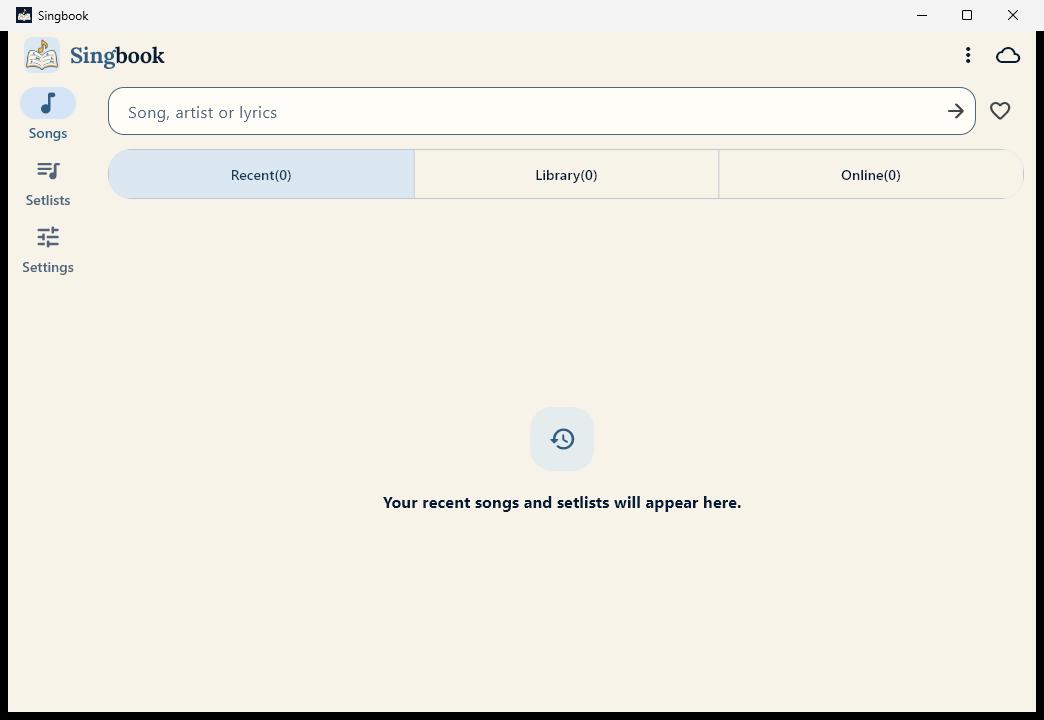
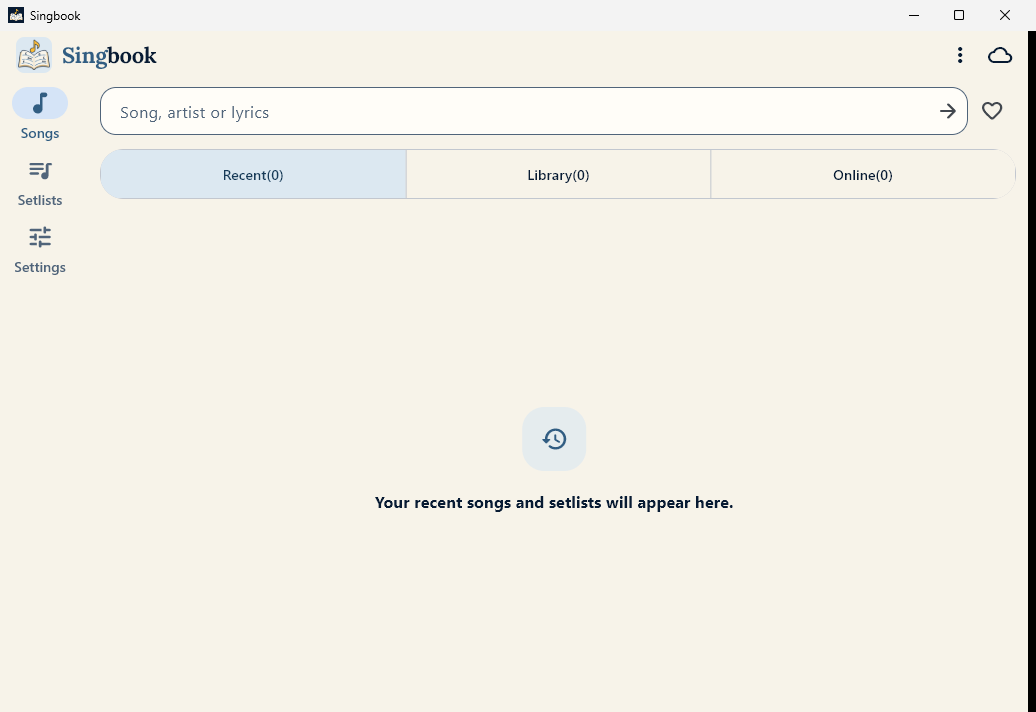
docs: crop packaged capture to app bounds

diff --git a/docs/windows-desktop.md b/docs/windows-desktop.md
@@ -131,10 +131,11 @@ Its manifest lists 50 required runtime files. The startup smoke produced a
 valid SQLite database, observed the `Singbook` main window, captured its pixels,
 and closed the app gracefully without a forced stop. The packaged screenshot is
 [available here](images/windows-desktop-review/packaged-startup.png); it is the
-default empty state at 1044×720. The screenshot shows a centered empty-state
-message, aligned search and category tabs, and no visible clipping. This single
-capture does not cover the complete native size, DPI, theme, and localization
-matrix.
+default empty state. The review PNG removes the unpainted 8-pixel left and bottom
+margins from the raw 1044×720 CI BMP, which remains in the run artifact. The app
+content shows a centered empty-state message, aligned search and category tabs,
+and no visible clipping. This single capture does not cover the complete native
+size, DPI, theme, and localization matrix.
 
 Source-layout captures also cover desktop library, setlists, reader, editor,
 settings, dark mode, and compact/large-text variants. Four representative
